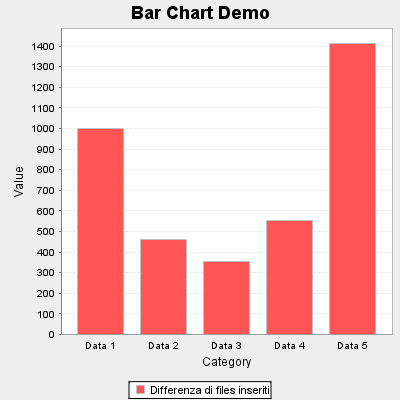
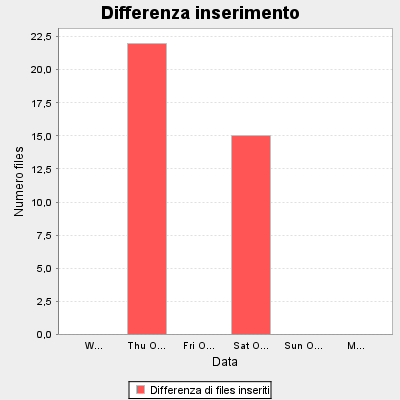
TEST

diff --git a/src/creaGraficoDinamico/CreaGrafo.java b/src/creaGraficoDinamico/CreaGrafo.java
@@ -35,6 +35,7 @@ import java.text.ParseException;
 import java.text.SimpleDateFormat;
 import java.util.Date;
 import java.util.GregorianCalendar;
+import java.util.List;
 
 public class CreaGrafo extends JFrame {
 	
@@ -174,9 +175,9 @@ public class CreaGrafo extends JFrame {
 
 
 	    	JFreeChart chartDue = ChartFactory.createBarChart(
-	    			"Bar Chart Demo", // chart title
-	    			"Category", // domain axis label
-	    			"Value", // range axis label
+	    			"Differenza inserimento", // chart title
+	    			"Data", // domain axis label
+	    			"Numero files", // range axis label
 	    			serieDue, // data
 	    			PlotOrientation.VERTICAL,
 	    			true, // include legend
@@ -250,24 +251,37 @@ public class CreaGrafo extends JFrame {
 	   
 		     
 		    
-	    	public CategoryDataset createDatasetDataDaInserire() {
-	    		// row keys...
+	    	public CategoryDataset createDatasetDataDaInserire(List<CalcoloDifferenze> dataDifferenze) {
 	    		String series1 = "Differenza di files inseriti";
-	    		// String series2 = "Second";
-	    		// String series3 = "Third";
-	    		// column keys...
-	    		String category1 = "Data 1";
-	    		String category2 = "Data 2";
-	    		String category3 = "Data 3";
-	    		String category4 = "Data 4";
-	    		String category5 = "Data 5";
-	    		// create the dataset...
+	    		// row keys...
 	    		DefaultCategoryDataset dataset = new DefaultCategoryDataset();
-	    		dataset.addValue(1000, series1, category1);
-	    		dataset.addValue(459, series1, category2);
-	    		dataset.addValue(356, series1, category3);
-	    		dataset.addValue(555, series1, category4);
-	    		dataset.addValue(1414, series1, category5);
+	    		 for (int counter = 0; counter < dataDifferenze.size(); counter++) { 
+	        		 
+	        		 CalcoloDifferenze p = dataDifferenze.get(counter);
+	        		 
+	        		 dataset.addValue(p.getNumeroS(),series1,  p.getMeseAnno());
+	        		
+	    		 }
+	    		
+	    		
+	    		
+	    	
+//	    		// String series2 = "Second";
+//	    		// String series3 = "Third";
+//	    		// column keys...
+//	    		String category1 = "Data 1";
+//	    		String category2 = "Data 2";
+//	    		String category3 = "Data 3";
+//	    		String category4 = "Data 4";
+//	    		String category5 = "Data 5";
+//	    		// create the dataset...
+//	    	//	DefaultCategoryDataset dataset = new DefaultCategoryDataset();
+//	   
+//	    		dataset.addValue(1000, series1, category1);
+//	    		dataset.addValue(459, series1, category2);
+//	    		dataset.addValue(356, series1, category3);
+//	    		dataset.addValue(555, series1, category4);
+//	    		dataset.addValue(1414, series1, category5);
 	    		
 	    		return dataset;
 	    		}

diff --git a/src/creaGraficoDinamico/ScorriFile.java b/src/creaGraficoDinamico/ScorriFile.java
@@ -87,9 +87,9 @@ public class ScorriFile {
 		  		TimeSeries timeSeriesDaInserire = new TimeSeries("Files Da Inserire");
 		  		long count;
 		  		long countComplete;
-		  		long differenza;
 		  		List<Avro> data = new ArrayList<Avro>();
-		  		int cont=0;
+		  		List<CalcoloDifferenze> dataDifferenze = new ArrayList<CalcoloDifferenze>();
+		  		
 		  		
 		  	for (File num : directories) { 		
 		  		
@@ -110,7 +110,7 @@ public class ScorriFile {
 	           } catch (IOException e) {
 				// TODO Auto-generated catch block
 				e.printStackTrace();
-			} cont++;
+			} 
 	      }
 		  
 			for (File num : directoriesComplete) { 		      
@@ -126,7 +126,13 @@ public class ScorriFile {
 			        		 
 			        		 Avro p = data.get(counter);
 			                 if (f.parse(num.getAbsolutePath().substring(num.getAbsolutePath().lastIndexOf("\\")+1)).toString().equalsIgnoreCase(p.getMeseAnno()))
+			                 {
 			                	 System.out.println("HO Matchato" + (countComplete-p.getNumeroS()));
+			                	 // cd.setMeseAnno( f.parse(num.getAbsolutePath().substring(num.getAbsolutePath().lastIndexOf("\\")+1)).toString());
+			                	 // cd.setNumeroS(countComplete-p.getNumeroS());
+			                	 dataDifferenze.add( new CalcoloDifferenze(f.parse(num.getAbsolutePath().substring(num.getAbsolutePath().lastIndexOf("\\")+1)).toString(),countComplete-p.getNumeroS()) );
+
+			                 }
 			             }   	
 			        	 
 					} catch (ParseException e) {
@@ -141,14 +147,7 @@ public class ScorriFile {
 		  	 	
 				XYSeriesCollection dataset = new XYSeriesCollection();
 		        dataset.addSeries(series);
-		       /*
-		        try {
-		        	main_obj.creaGrafo.initUI();
-				} catch (ParseException e) {
-					// TODO Auto-generated catch block
-					e.printStackTrace();
-				}
-				*/
+		      
 		        main_obj.creaGrafo.setSerieCollection(dataset);
 		        main_obj.creaGrafo.setSeries(series);
 		        main_obj.creaGrafo.setTimeseriesOK(timeSeries);
@@ -167,8 +166,8 @@ public class ScorriFile {
 		     
 		     
 		     
-		     CategoryDataset serieDue = null;
-				serieDue = main_obj.creaGrafo.createDatasetDataDaInserire();
+		   
+		     CategoryDataset serieDue = main_obj.creaGrafo.createDatasetDataDaInserire(dataDifferenze);
 			     JFreeChart chartDue = main_obj.creaGrafo.createChartDue(serieDue);   
 		     
 		     

diff --git a/src/creaGraficoDinamico/CalcoloDifferenze.java b/src/creaGraficoDinamico/CalcoloDifferenze.java
@@ -1,0 +1,26 @@
+package creaGraficoDinamico;
+
+public class CalcoloDifferenze {
+	
+	String meseAnno;
+	public String getMeseAnno() {
+		return meseAnno;
+	}
+	public void setMeseAnno(String meseAnno) {
+		this.meseAnno = meseAnno;
+	}
+	public long getNumeroS() {
+		return numeroS;
+	}
+	public void setNumeroS(long numeroS) {
+		this.numeroS = numeroS;
+	}
+	long numeroS;
+	public CalcoloDifferenze(String meseAnno, long numeroS) {
+		super();
+		this.meseAnno = meseAnno;
+		this.numeroS = numeroS;
+	}
+	
+
+}
